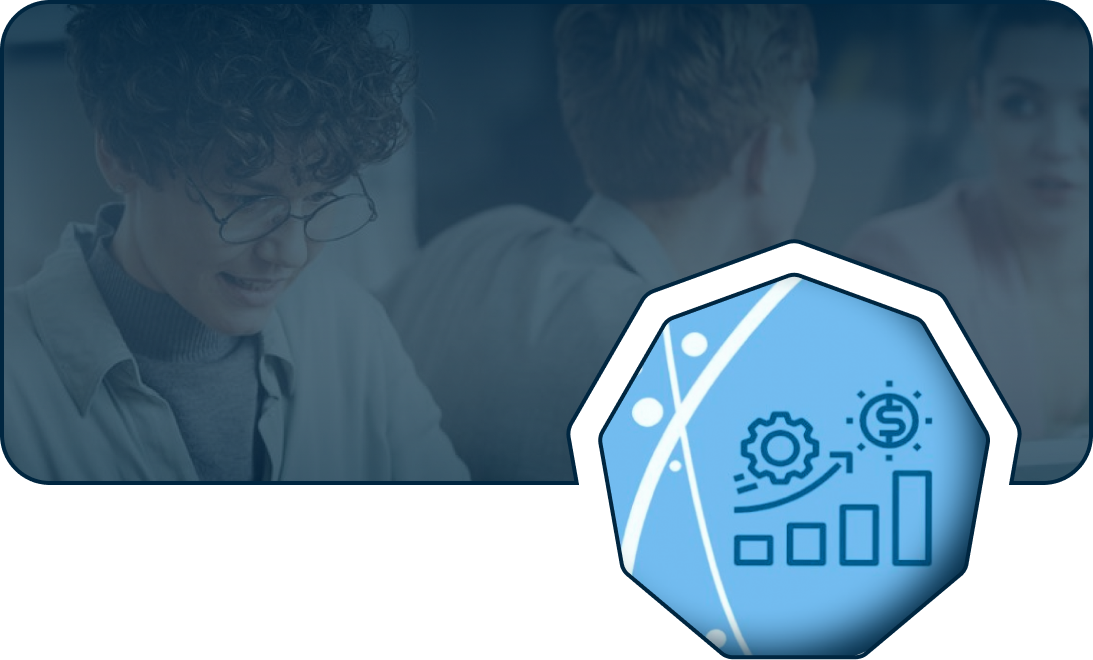
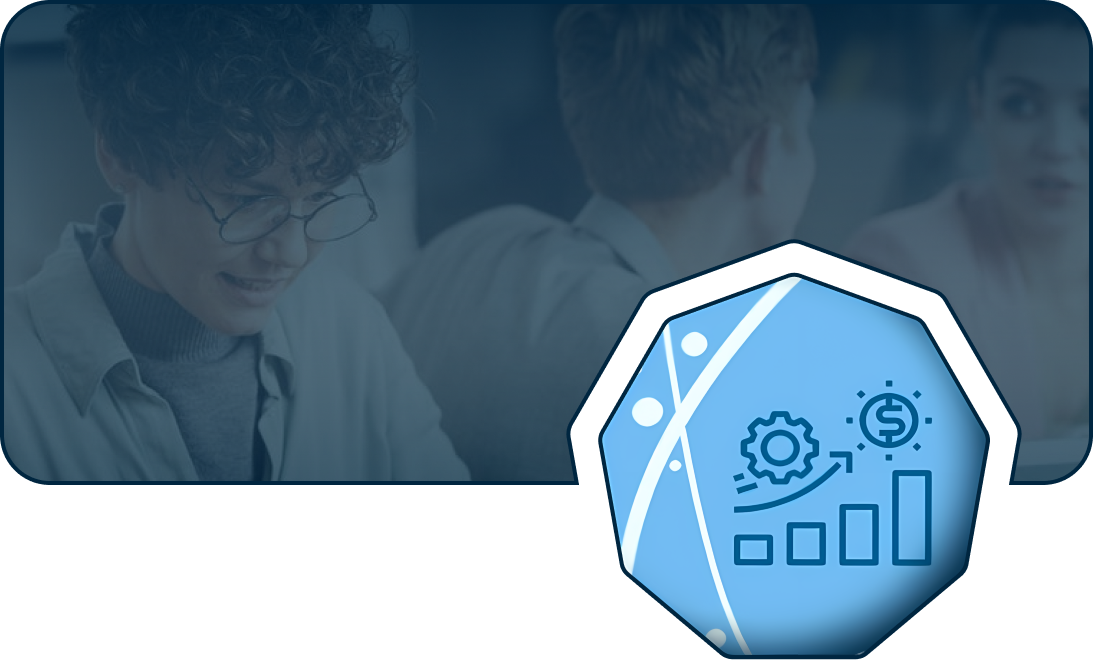
Optimized images

diff --git a/services.html b/services.html
@@ -8,7 +8,7 @@
     <link rel="preconnect" href="https://fonts.gstatic.com" crossorigin>
     <link href="https://fonts.googleapis.com/css2?family=Montserrat:ital,wght@0,100..900;1,100..900&display=swap" rel="stylesheet">
     <link href="https://fonts.googleapis.com/css2?family=Josefin+Sans:ital,wght@0,100;0,200;0,300;0,400;0,500;0,600;0,700;1,100;1,200;1,300;1,400;1,500;1,600;1,700&display=swap" rel="stylesheet">
-    <link rel="icon" href="./images/bicm.png">
+    <link rel="icon" href="./images/optimized_images/bicm.png">
     <link rel="stylesheet" href="stylebeforecompatibility.css">
     <title>BICM SARL | Our Services</title>
 </head>
@@ -47,56 +47,56 @@
 
     <div class="services">
         <div class="service" id="1">
-            <img src="./images/service1.png" alt="Our Service">
+            <img src="./images/optimized_images/service1.png" alt="Our Service">
             <div class="service-title">
                 <h5>Project management consultations</h5>
                 <p class="normal-p">Our expert project management consultations ensure the successful execution of your projects from inception to completion. We offer tailored solutions that include baseline studies, monitoring, evaluation, and final assessments, ensuring all phases are aligned with your strategic goals. Maximize efficiency and achieve measurable results through our data-driven approach to project management.</p>
             </div>
         </div>
         <div class="service" id="2">
-            <img src="./images/service2.png" alt="Our Service">
+            <img src="./images/optimized_images/service2.png" alt="Our Service">
             <div class="service-title">
                 <h5>Institutional development and strengthening of organizations</h5>
                 <p class="normal-p">Strengthen your organization with our institutional development services, designed to enhance structural capacity and operational efficiency. We focus on sustainable growth, helping organizations optimize their internal processes and adapt to changing environments. Benefit from strategies that reinforce leadership, accountability, and long-term resilience.</p>
             </div>
         </div>
         <div class="service" id="3">
-            <img src="./images/service3.png" alt="Our Service">
+            <img src="./images/optimized_images/service3.png" alt="Our Service">
             <div class="service-title">
                 <h5>Local development</h5>
                 <p class="normal-p">Empower your community or region with our local development strategies, aimed at fostering sustainable social and economic growth. We collaborate with local stakeholders to implement initiatives that reflect the unique needs of the area. From infrastructure to social services, our targeted approaches drive impactful results in local development.</p>
             </div>
         </div>
         <div class="service" id="4">
-            <img src="./images/service4.png" alt="Our Service">
+            <img src="./images/optimized_images/service4.png" alt="Our Service">
             <div class="service-title">
                 <h5>Strategic and operational planning</h5>
                 <p class="normal-p">Achieve your organizational vision with our strategic and operational planning services. We work closely with your leadership team to define goals, allocate resources efficiently, and design actionable plans. Our strategies help businesses navigate challenges, capitalize on opportunities, and sustain growth in competitive markets.</p>
             </div>
         </div>
         <div class="service" id="5">
-            <img src="./images/service5.png" alt="Our Service">
+            <img src="./images/optimized_images/service5.png" alt="Our Service">
             <div class="service-title">
                 <h5>Innovation and change management</h5>
                 <p class="normal-p">Drive innovation and manage organizational change with our expert consultations. We help businesses navigate transformations by aligning innovative practices with your operational needs. Embrace new technologies and methodologies with confidence, ensuring that change leads to positive, measurable outcomes.</p>
             </div>
         </div>
         <div class="service" id="6">
-            <img src="./images/service6.png" alt="Our Service">
+            <img src="./images/optimized_images/service6.png" alt="Our Service">
             <div class="service-title">
                 <h5>Monitoring, evaluation, accountability and learning system</h5>
                 <p class="normal-p">Improve project outcomes with our comprehensive MEAL systems, designed to provide continuous feedback and accountability. Our services ensure that your projects meet objectives while offering actionable insights for improvement. With our system, track progress, demonstrate impact, and apply lessons learned for future success.</p>
             </div>
         </div>
         <div class="service" id="7">
-            <img src="./images/service7.png" alt="Our Service">
+            <img src="./images/optimized_images/service7.png" alt="Our Service">
             <div class="service-title">
                 <h5>Quality systems</h5>
                 <p class="normal-p">Enhance your organization’s performance with our robust quality systems consultations. We assist in the development and implementation of quality assurance frameworks that align with international standards. Guarantee superior product or service delivery, improve customer satisfaction, and boost operational efficiency.</p>
             </div>
         </div>
         <div class="service" id="8">
-            <img src="./images/service8.png" alt="Our Service">
+            <img src="./images/optimized_images/service8.png" alt="Our Service">
             <div class="service-title">
                 <h5>Human Resources Management and Representation</h5>
                 <p class="normal-p">Streamline your HR operations with our human resources management and representation services. We offer solutions in legal representation, immigration services for expatriates, payroll management, and compliance with fiscal and legal regulations. Our services help you maintain a productive, compliant workforce that drives your business forward.</p>

diff --git a/index.html b/index.html
@@ -34,9 +34,9 @@
             <h1>Bureau d'Ingénierrie et de Conseils en Management <br /> | Engineering and Management Consulting Office</h1>
         </div>
 
-        <img src="./images/header-graphic.png" alt="Header Graphic" class="header-graphic">
-        <img src="./images/header-graphic-tablet.png" alt="Header Graphic" class="header-graphic-tablet">
-        <img src="./images/header-graphic-phone.png" alt="Header Graphic" class="header-graphic-phone">
+        <img src="./images/optimized_images/header-graphic.png" alt="Header Graphic" class="header-graphic">
+        <img src="./images/optimized_images/header-graphic-tablet.png" alt="Header Graphic" class="header-graphic-tablet">
+        <img src="./images/optimized_images/header-graphic-phone.png" alt="Header Graphic" class="header-graphic-phone">
 
         <button class="main-btn">Prenez Rendez-vous</button>
     </header>
@@ -49,7 +49,7 @@
 
         <div class="what-we-do-ctn">
             <div class="what-we-do">
-                <img src="./images/what-we-do-1.png" alt="What We Do">
+                <img src="./images/optimized_images/what-we-do-1.png" alt="What We Do">
                 <div>
                     <h3>Project management</h3>
                     <p class="normal-p">Project baseline study</p>
@@ -60,7 +60,7 @@
             </div>
 
             <div class="what-we-do">
-                <img src="./images/what-we-do-3.png" alt="What We Do">
+                <img src="./images/optimized_images/what-we-do-3.png" alt="What We Do">
                 <div>
                     <h3>Human Resource Management and Representation</h3>
                     <p class="normal-p">Immigration services for expatriate employee</p>
@@ -72,7 +72,7 @@
             </div>
 
             <div class="what-we-do">
-                <img src="./images/what-we-do-2.png" alt="What We Do">
+                <img src="./images/optimized_images/what-we-do-2.png" alt="What We Do">
                 <div>
                     <h3>Capacity building</h3>
                     <p class="normal-p">Institutional strenghtening </p>

diff --git a/stylebeforecompatibility.css b/stylebeforecompatibility.css
@@ -477,7 +477,7 @@ section {
     border-radius: 40px;
     border: 3px solid #002640;
     background-size: cover;
-    background-image: url(./images/gradient.png);
+    background-image: url(./images/optimized_images/gradient.png);
 }
 
 .benefit-section .title {
@@ -730,7 +730,7 @@ section {
     border: 3px solid #002640;
     background-size: cover;
     background-position: center;
-    background-image: url(./images/gradient-image.png)
+    background-image: url(./images/optimized_images/gradient-image.png)
 }
 
 .contact-section .title {
@@ -752,7 +752,7 @@ section {
     height: 315px;
     padding: 110px 115px;
     background-size: cover;
-    background-image: url(./images/form-bg.png);
+    background-image: url(./images/optimized_images/form-bg.png);
 }
 
 .contact-section form input {
@@ -826,7 +826,7 @@ footer {
     padding: 75px;
     background-size: cover;
     background-position: center;
-    background-image: url(./images/gradient-larger.png);
+    background-image: url(./images/optimized_images/gradient-larger.png);
     border: 1px solid black;
 }
 
@@ -914,7 +914,7 @@ footer .copyright {
 /* ABOUT PAGE */
 .about-benefit-section {
     margin: 135px 8vw 0 8vw;
-    background-image: url(./images/gradient-larger.png)
+    background-image: url(./images/optimized_images/gradient-larger.png)
 }
 
 .about-benefit-section .title {
@@ -943,7 +943,7 @@ footer .copyright {
 
 
 .about-location {
-    background-image: url(./images/gradient-larger.png)
+    background-image: url(./images/optimized_images/gradient-larger.png)
 }
 
 .about-location .title {
@@ -983,9 +983,6 @@ footer .copyright {
 
 
 
-.about-staff {
-    /* border: 1px solid; */
-}
 
 @media (max-width: 940px) {
     .about-staff {
@@ -1096,7 +1093,7 @@ footer .copyright {
     width: 265px;
     height: 125px;
     padding: 0 20px;
-    background-image: url(./images/gradient-larger.png);
+    background-image: url(./images/optimized_images/gradient-larger.png);
     background-size: cover;
     border-radius: 25px;
     font-size: 15px;
